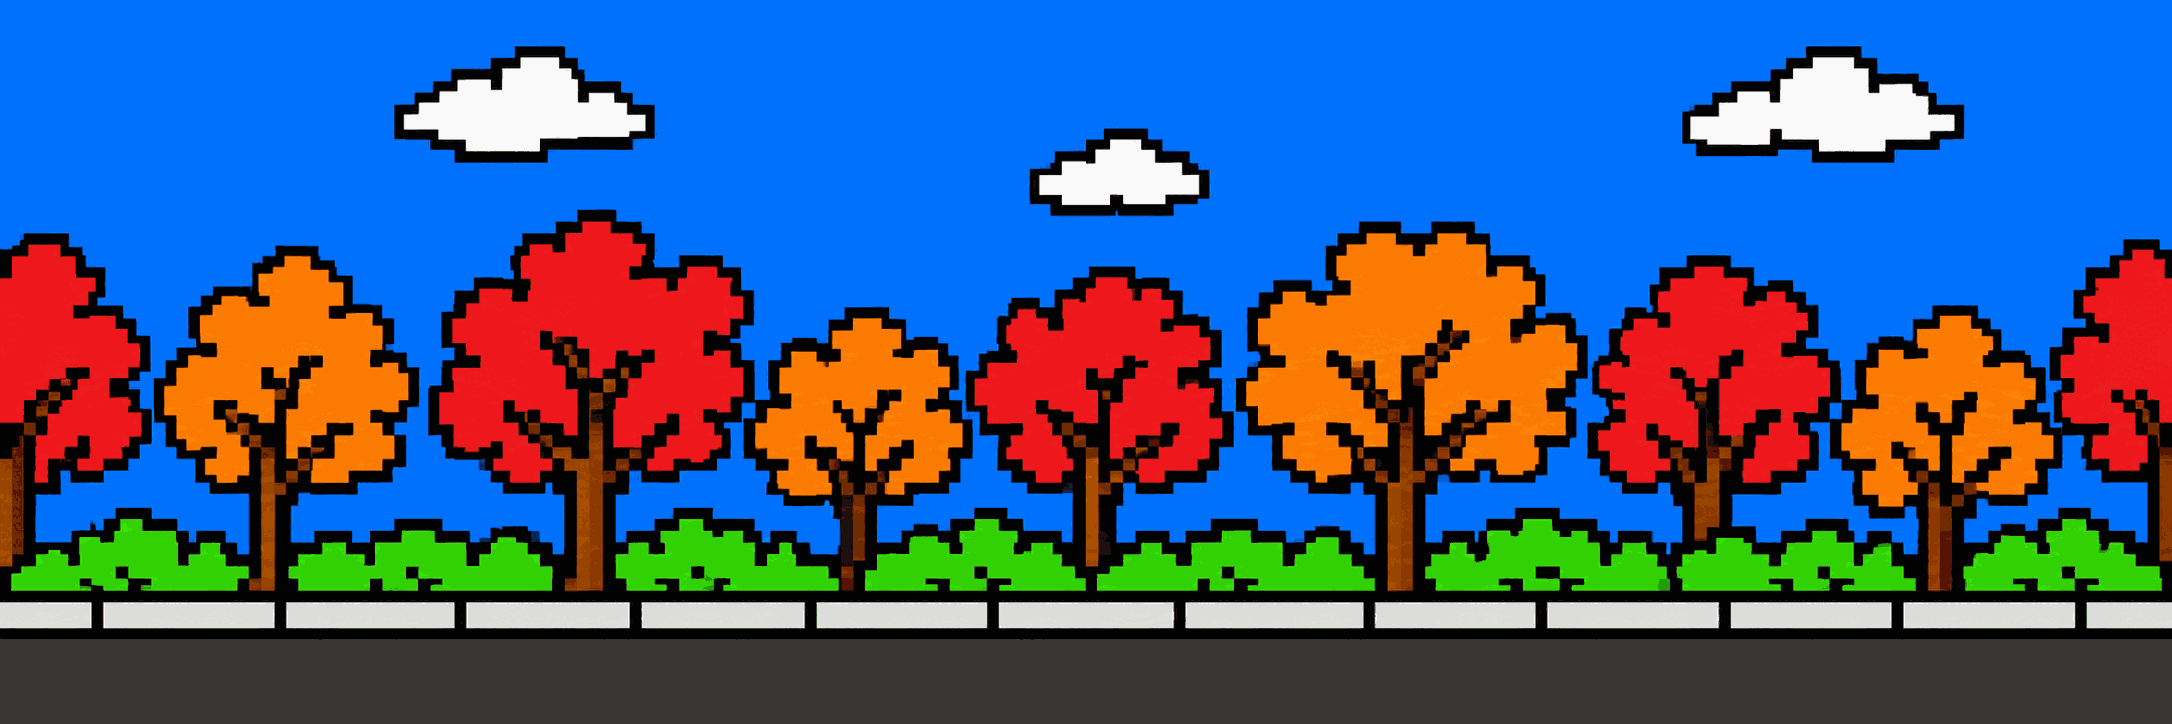
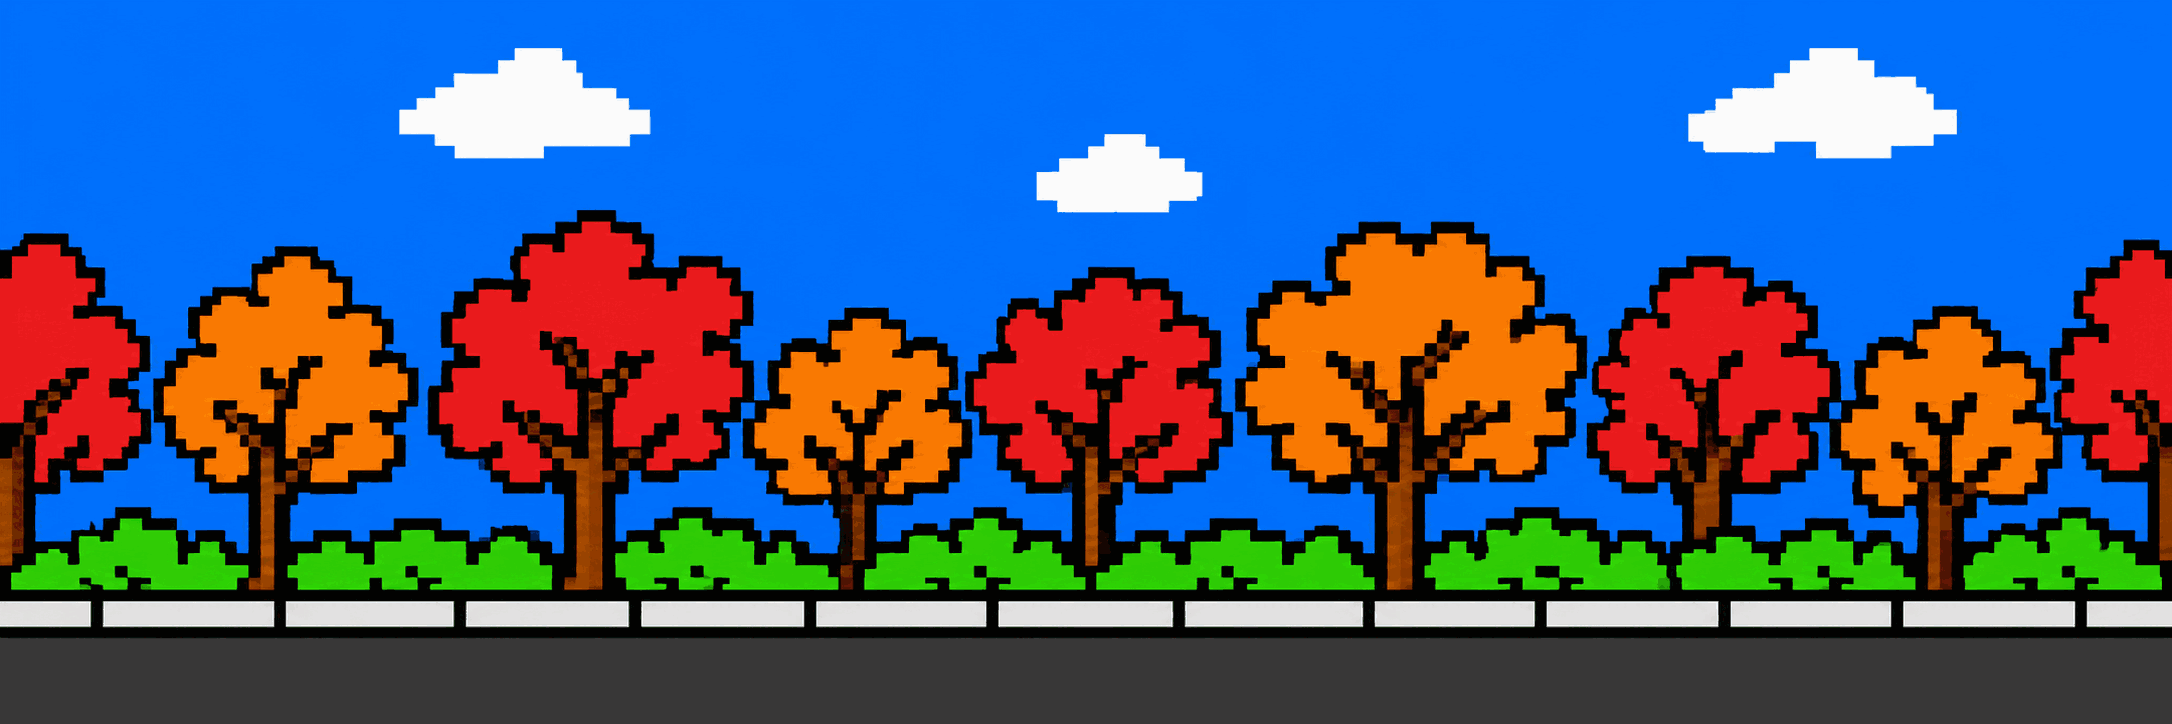
Make Capitol backdrop transparent and remove cloud outlines

diff --git a/Styles/easter-eggs.css b/Styles/easter-eggs.css
@@ -7,7 +7,7 @@
     overflow: hidden;
     /* Madison's State Capitol sits behind the On Wisconsin parade. */
     background-color: #1686e7;
-    /* Trees fill the width; a separate feathered layer centers the Capitol. */
+    /* Trees fill the width; the Capitol is a transparent cutout above them. */
     background-image: url("../Images/EasterEggs/UW_MarchingBand_Trees.png");
     background-position: center center;
     background-size: auto 100%;
@@ -29,9 +29,6 @@
     transform: translateX(-50%);
     background: url("../Images/EasterEggs/UW_MarchingBand_Background.png") center / 100% 100% no-repeat;
     image-rendering: pixelated;
-    /* Blend the differing sky/tree pixels without shrinking or stretching the dome. */
-    -webkit-mask-image: linear-gradient(to right, transparent, #000 13%, #000 87%, transparent);
-    mask-image: linear-gradient(to right, transparent, #000 13%, #000 87%, transparent);
     pointer-events: none;
 }
 /* Same expandable stage, but with a cinematic red glow for ILLBEBACK. */
